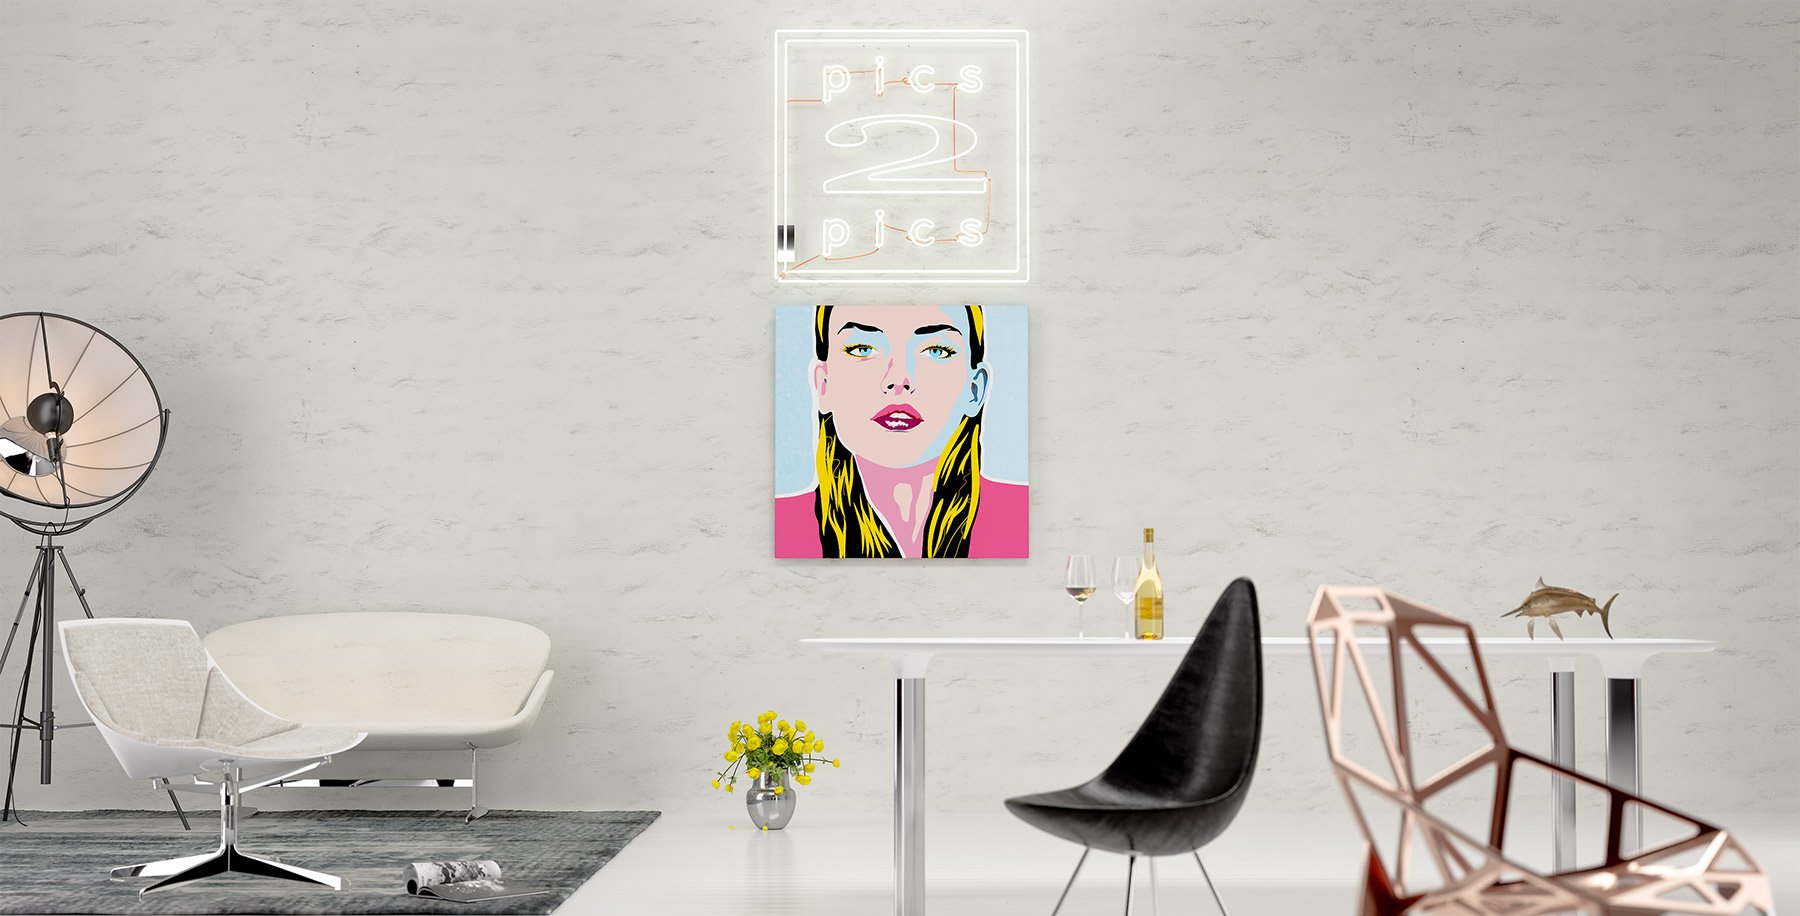
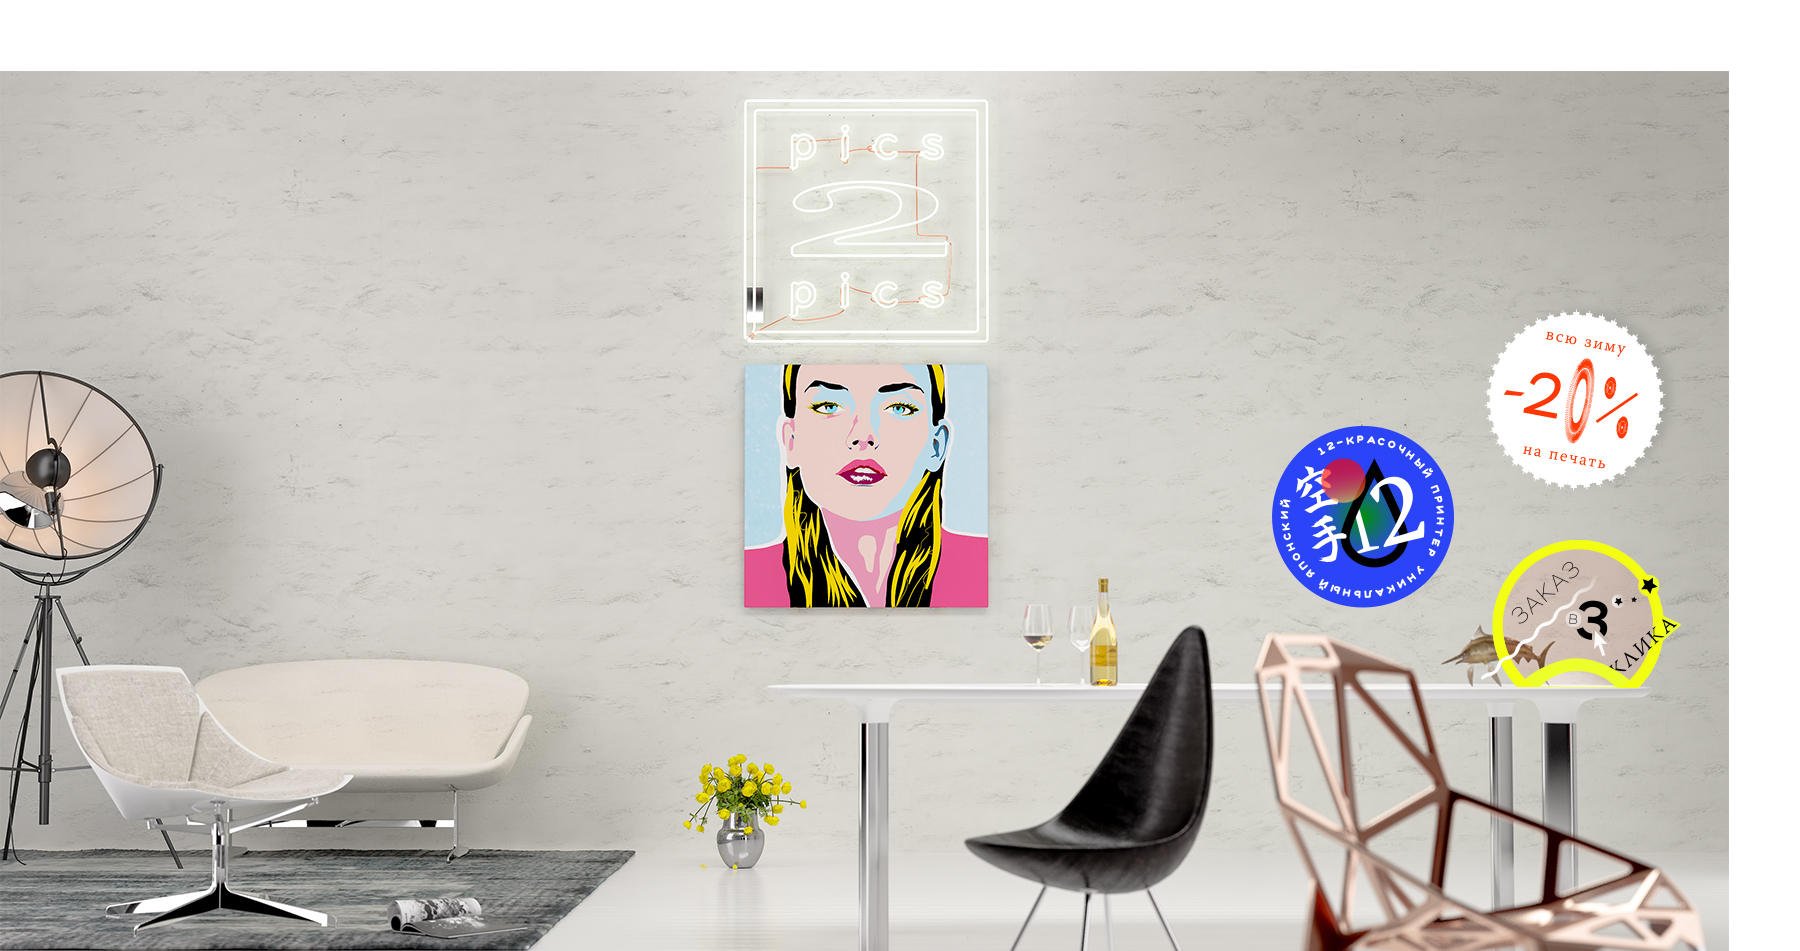
Главная страница 100% / 1810пх

diff --git a/www/new3/css/style.css b/www/new3/css/style.css
@@ -292,7 +292,7 @@ body{ margin: 0; min-width: 1300px; }
 /* Fixed to bottom button */
 .actionBtn.fixed{
     position: fixed;
-    bottom: -25px;
+    bottom: -50px;
     left: 48%;
     margin-left: -156px;
 }
@@ -317,15 +317,16 @@ body{ margin: 0; min-width: 1300px; }
     display: inline-block;
     height: 47px;
     line-height: 49px;
-    font-family: "Stem_regular", sans-serif;
+    font-family: 'ShangoSansRegular', sans-serif;
     text-decoration: none;
-    text-transform: uppercase;
-    font-size: 1rem;
+    font-size: 16px;
+    font-weight: 700;
+    letter-spacing: 3px;
     border: 2px solid #fff;
     border-radius: 40px;
     color: #fff;
     background: transparent;
-    padding: 0 15px;
+    padding: 8px 28px;
 
     -webkit-transition: all 0.2s ease-out;
     -moz-transition: all 0.2s ease-out;
@@ -401,7 +402,7 @@ body{ margin: 0; min-width: 1300px; }
     top: 0;
     right: 0;
     bottom: 0;
-    padding: 60px;
+    padding: 10px 60px;
     background-color: rgba(255,255,255,0.90);
 }
 .menu a.close{
@@ -503,17 +504,14 @@ body{ margin: 0; min-width: 1300px; }
     right: 0;
     bottom: 0;
     width: 100%;
-    background-position: 70px 0 0 0;
+    background-position: 0px 0 0 0;
     background-repeat: no-repeat;
     background-size: cover;
     background-image: url("../img/bg.jpg");
 }
 .section.intro h1{
-    letter-spacing: 1px;
-    position: absolute;
-    top: 70px;
+    letter-spacing: 5.5px;
     font-family: 'ShangoSansRegular';
-    margin: 0;
     color: #fff;
     text-transform: uppercase;
     font-size: 70px;
@@ -521,38 +519,45 @@ body{ margin: 0; min-width: 1300px; }
     text-shadow: 10px -10px 10px rgba(0,0,0,0.1);
 }
 .section.intro .by_you{
-    left: 0;
+    float: left;
+    margin-top: 112px;
+    margin-left: 18px;
+    text-align: left;
 }
 .section.intro .by_us{
-    right: 0;
+    float: right;
+    margin-top: 112px;
+    margin-right: 100px;
+    text-align: right;
 }
-
+/*.section.intro .stickers{
+  float: right;
+}*/
 .order1 {
-    display: none;
     width: 200px;
     height: 148px;
     position: absolute;
-    right: 120px;
-    top: 500px;
+    right: 80px;
+    top: 540px;
+    display: none;
 }
 
 .white-circle {
     width: 197px;
     height: 192px;
     position: absolute;
-    right: 120px;
-    top: 250px;
+    right: 80px;
+    top: 300px;
     display: none;
 }
 
 .blue-circle {
-    width: 182px;
-    height: 182px;
-    background: #2b44f7;
+    width: 172px;
+    height: 172px;
     border-radius: 50%;
     position: absolute;
-    right: 350px;
-    top: 350px;
+    right: 315px;
+    top: 425px;
     display: none;
 }
 

diff --git a/www/new3/index.html b/www/new3/index.html
@@ -41,7 +41,7 @@
 	<div class="actionBtn fixed" id="getModel">
 		<span></span>
 		<a class="orderBtn" href="#">
-			получить макет!
+			получите макет
 		</a>
 	</div><!-- /.actionBtn -->
 
@@ -90,22 +90,26 @@
 			 data-stripe-bg="#fff"
 			 data-menu="pics 2, pics">
 			<div class="content">
-				<div class="wrap">
+				<div class="wrap clearfix">
 					<h1 class="by_you">
 						от вас<br>
 						картинки
 					</h1>
 					<h1 class="by_us">
 						от нас<br>
-						картины!
+						картины
 					</h1>
-					<div class="order1">
-						<img src="img/order3.png" height="148" width="200">
+					<div class="stickers">
+						<div class="order1">
+							<img src="img/order3.png" height="148" width="200">
+						</div>
+						<div class="white-circle">
+							<img src="img/white-circle.png" height="192" width="197">
+						</div>
+						<div class="blue-circle">
+							<img src="img/blue-circle.png" height="182" width="180">
+						</div>
 					</div>
-					<div class="white-circle">
-						<img src="img/white-circle.png" height="192" width="197">
-					</div>
-					<div class="blue-circle">		</div>
 				</div>
 			</div>
 		</div>

diff --git a/www/new3/css/style_huge.css b/www/new3/css/style_huge.css
@@ -90,7 +90,7 @@ html{ font-size: 100%; }
 
 
 /* Fixed to bottom button */
-.actionBtn.fixed{
+/*.actionBtn.fixed{
     bottom: -1.563rem;
     margin-left: -9.75rem;
 }
@@ -116,7 +116,7 @@ html{ font-size: 100%; }
     position: absolute;
     bottom: 3.7rem;
     right: 2.8rem;
-}
+}*/
 
 /* nav block */
 .menu .main_wrap{
@@ -159,17 +159,17 @@ html{ font-size: 100%; }
     position: relative;
 }
 .section.intro .content{
-    top: 3.125rem;
+    top: 0;
 }
 .section.intro h1{
     top: 70px;
     text-shadow: 0.625rem -0.625rem 0.625rem rgba(0,0,0,0.1);
 }
 .section.intro .by_you{
-    left: 1rem;
+    float: left;
 }
 .section.intro .by_us{
-    right: 5rem;
+    float: right;
 }
 
 
